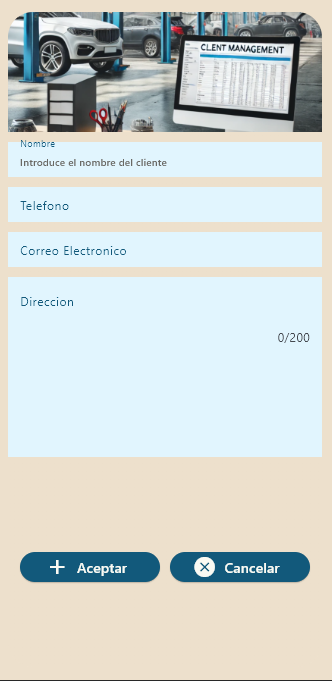
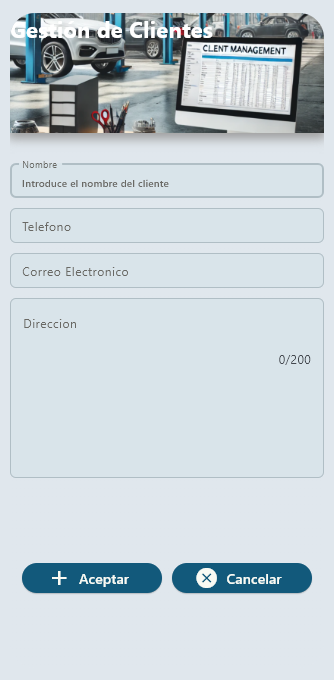
UI design improvement for "Add Clients" management: visual refinement of the "Name", "Phone", "Email", and "Address" fields, with color and contrast adjustments for a more appealing and cohesive user experience.
Mejora en el diseño de la interfaz para la gestión de "Añadir Clientes": refinamiento visual de los campos "Nombre", "Teléfono", "Correo Electrónico" y "Dirección", con ajustes en colores y contrastes para una experiencia de usuario más atractiva y coherente.

diff --git a/app.py b/app.py
@@ -1,7 +1,7 @@
 from datetime import datetime
 import flet as ft
 from flet import *
-from sqlalchemy import and_, desc, asc, or_
+from sqlalchemy import and_, or_, desc, asc
 from sqlalchemy.exc import SQLAlchemyError
 from models import Cliente, Vehiculo, Recambio, Ingreso, Registro
 import db
@@ -42,19 +42,19 @@ class VentanaInicio(ft.View):
         self.page = page
 
         # Color de fondo contenedor principal
-        self.bgcolor = "#ede0cc"
+        self.bgcolor = "#E0E7ED"
 
         # Logo de la App
         self.logo = ft.Container(
             ft.Container(
-                bgcolor="#ede0cc",
+                bgcolor="#E0E7ED",
                 width=250,
                 height=180,
                 padding=0,
                 image_repeat=ImageRepeat.NO_REPEAT,
                 shape=ft.BoxShape("rectangle"),
                 # Define imagen
-                image_src="/logo-APP.png",
+                image_src="/logo-APP3.png",
                 image_fit=ft.ImageFit.COVER,
             ),
             alignment=ft.alignment.Alignment(x=0, y=0)
@@ -62,9 +62,8 @@ class VentanaInicio(ft.View):
 
         # Imagen vehiculo
         self.ImagenVehiculo = ft.Container(
-
             ft.Container(
-                bgcolor="#ede0cc",
+                bgcolor="#E0E7ED",
                 width=200,
                 height=90,
                 padding=0,
@@ -153,12 +152,12 @@ class VentanaInicio(ft.View):
                 ft.NavigationBarDestination(
                     icon_content=ft.Icon(
                         name=ft.icons.HOME_OUTLINED,
-                        color="#12597b",
+                        color="#31708E",
                         size=20  # Ajusta el tamaño del ícono no seleccionado
                     ),
                     selected_icon_content=ft.Icon(
                         name=ft.icons.HOME_ROUNDED,
-                        color="#12597b",
+                        color="#31708E",
                         size=24  # Ajusta el tamaño del ícono seleccionado
                     ),
                     label="Inicio",
@@ -166,12 +165,12 @@ class VentanaInicio(ft.View):
                 ft.NavigationBarDestination(
                     icon_content=ft.Icon(
                         name=ft.icons.PERSON_OUTLINED,
-                        color="#12597b",
+                        color="#31708E",
                         size=20
                     ),
                     selected_icon_content=ft.Icon(
                         name=ft.icons.PERSON,
-                        color="#12597b",
+                        color="#31708E",
                         size=24
                     ),
                     label="Cliente",
@@ -180,12 +179,12 @@ class VentanaInicio(ft.View):
                 ft.NavigationBarDestination(
                     icon_content=ft.Icon(
                         name=ft.icons.DIRECTIONS_CAR_OUTLINED,
-                        color="#12597b",
+                        color="#31708E",
                         size=20
                     ),
                     selected_icon_content=ft.Icon(
                         name=ft.icons.DIRECTIONS_CAR,
-                        color="#12597b",
+                        color="#31708E",
                         size=24
                     ),
                     label="Vehículo",
@@ -193,12 +192,12 @@ class VentanaInicio(ft.View):
                 ft.NavigationBarDestination(
                     icon_content=ft.Icon(
                         name=ft.icons.SETTINGS_OUTLINED,
-                        color="#12597b",
+                        color="#31708E",
                         size=20
                     ),
                     selected_icon_content=ft.Icon(
                         name=ft.icons.SETTINGS,
-                        color="#12597b",
+                        color="#31708E",
                         size=24
                     ),
                     label="Recambio",
@@ -206,20 +205,20 @@ class VentanaInicio(ft.View):
                 ft.NavigationBarDestination(
                     icon_content=ft.Icon(
                         name=ft.icons.CAR_REPAIR_OUTLINED,
-                        color="#12597b",
+                        color="#31708E",
                         size=20
                     ),
                     selected_icon_content=ft.Icon(
                         name=ft.icons.CAR_REPAIR,
-                        color="#12597b",
+                        color="#31708E",
                         size=24
                     ),
                     label="Ingreso",
                 )
             ],
-            bgcolor="#ede0cc",  # Color de fondo de la barra de navegación (azul oscuro)
-            indicator_color=ft.colors.AMBER_500,  # Color del indicador del destino seleccionado (ámbar)
-            surface_tint_color="#ede0cc",  # Color de superficie para el material (#ede0cc)
+            bgcolor="#D1E2E7",  # Color de fondo de la barra de navegación (azul oscuro)
+            indicator_color="#FFD700",  # Color del indicador del destino seleccionado (ámbar)
+            surface_tint_color="#E0E7ED",  # Color de superficie para el material (#ede0cc)
             label_behavior=ft.NavigationBarLabelBehavior.ONLY_SHOW_SELECTED  # Mostrar la etiqueta  seleccionada
         )
 
@@ -249,8 +248,8 @@ class VentanaInicio(ft.View):
                 width=350,  # ancho
                 height=655,  # Alto
                 gradient=ft.LinearGradient([  # color del contenedor configurable en 2 tonos de color
-                    "#ede0cc",
-                    "#ede0cc",
+                    "#E0E7ED",
+                    "#E0E7ED",
                 ])
 
             )
@@ -667,12 +666,24 @@ class VentanaClienteNuevo(ft.View):
         self.page = page
 
         # Color de fondo contenedor principal
-        self.bgcolor = "#ede0cc"
+        self.bgcolor = "#E0E7ED"
 
         # Imagen gestion de cliente
         self.imagen_gestionCliente = ft.Container(
             ft.Container(
-                bgcolor="#ede0cc",
+                    content=ft.Text(
+                        value="Gestión de Clientes",
+                        size=22,
+                        color=ft.colors.WHITE,
+                        weight=ft.FontWeight.BOLD
+                    ),
+                shadow=ft.BoxShadow(
+                    blur_radius=8,  # Difuminado de la sombra
+                    spread_radius=2,  # Expansión de la sombra
+                    offset=ft.Offset(0, 4),  # Posición: hacia abajo
+                    color=ft.colors.GREY_500,  # Color de la sombra
+                ),
+                bgcolor="#E0E7ED",
                 width=320,
                 height=120,
                 padding=0,
@@ -688,68 +699,69 @@ class VentanaClienteNuevo(ft.View):
         # Campo de entrada para el nombre del cliente
         self.input_nombreCliente = ft.TextField(
             label="Nombre",
-            label_style=TextStyle(color='#12597b', size=12),
+            label_style=TextStyle(color='#6a6965', size=12),
             value="",
-            border_radius=ft.border_radius.vertical(top=0, bottom=0),
+            border_radius=ft.border_radius.vertical(top=6, bottom=6),
             hint_text="Introduce el nombre del cliente",
             hint_style=TextStyle(color='#6a6965', size=10),
             color='black',
             height=35,
             cursor_color="#12597b",
             text_size=13,
-            border_color="transparent",
+            border_color="#B0BEC5",
             autofocus=True,
-            bgcolor="#E1F5FE"
+            bgcolor="#D9E4EA"
         )
 
         # Campo de entrada para el telefono del cliente
         self.input_telefonoCliente = ft.TextField(
             label="Telefono",
-            label_style=TextStyle(color='#12597b', size=12),
+            label_style=TextStyle(color='#6a6965', size=12),
             value="",
-            border_radius=ft.border_radius.vertical(top=0, bottom=0),
+            border_radius=ft.border_radius.vertical(top=6, bottom=6),
             hint_text="Introduce el telefono del cliente",
             hint_style=TextStyle(color='#6a6965', size=10),
             color='black',
             height=35,
             cursor_color="#12597b",
             text_size=13,
-            border_color="transparent",
+            border_color="#B0BEC5",
             autofocus=True,
-            bgcolor="#E1F5FE"
+            bgcolor="#D9E4EA"
         )
 
         # Campo de entrada para el correo electronico del cliente
         self.input_correoCliente = ft.TextField(
             label="Correo Electronico",
-            label_style=TextStyle(color='#12597b', size=12),
+            label_style=TextStyle(color='#6a6965', size=12),
             value="",
-            border_radius=ft.border_radius.vertical(top=0, bottom=0),
+            border_radius=ft.border_radius.vertical(top=6, bottom=6),
             hint_text="Introduce el correo del cliente",
             hint_style=TextStyle(color='#6a6965', size=10),
             color='black',
             height=35,
             cursor_color="#12597b",
             text_size=13,
-            border_color="transparent",
+            border_color="#B0BEC5",
             autofocus=True,
-            bgcolor="#E1F5FE"
+            bgcolor="#D9E4EA"
         )
 
         # Campo de entrada para la direccion del cliente
         self.input_direccionCliente = ft.Container(
-            bgcolor='#E1F5FE',
-            # border=ft.border.all(ft.colors.ORANGE_100),
+            bgcolor='#D9E4EA',
+            border=ft.border.all(color="#B0BEC5", width=1),
+            border_radius=ft.border_radius.vertical(top=6, bottom=6),
             # expand=True,
             height=180,
             content=
             ft.TextField(
                 filled=False,
                 label="Direccion",
-                label_style=TextStyle(color='#12597b', size=12, ),
+                label_style=TextStyle(color='#6a6965', size=12, ),
                 expand=True,
                 value="",
-                border_radius=ft.border_radius.vertical(top=5, bottom=5),
+                border_radius=ft.border_radius.vertical(top=6, bottom=6),
                 hint_text="Introduce la direccion del cliente",
                 hint_style=TextStyle(color='#6a6965', size=10),
                 max_length=200,  # maximo de caracteres que se pueden ingresar en TextField
@@ -761,7 +773,7 @@ class VentanaClienteNuevo(ft.View):
                 text_size=13,
                 border_color="transparent",
                 autofocus=False,
-                bgcolor="#E1F5FE",
+                bgcolor="#D9E4EA",
                 text_vertical_align=ft.VerticalAlignment.START,
             )
         )
@@ -807,6 +819,7 @@ class VentanaClienteNuevo(ft.View):
                 ft.Column([
                     # self.tituloClientes,
                     self.imagen_gestionCliente,
+                    ft.Divider(height=10, color="transparent"),
                     self.input_nombreCliente,
                     self.input_telefonoCliente,
                     self.input_correoCliente,
@@ -820,8 +833,8 @@ class VentanaClienteNuevo(ft.View):
                 width=350,  # ancho
                 height=655,  # Alto
                 gradient=ft.LinearGradient([  # color del contenedor configurable en 2 tonos de color
-                    "#ede0cc",
-                    "#ede0cc",
+                    "#E0E7ED",
+                    "#E0E7ED",
                 ])
 
             )
@@ -3127,6 +3140,7 @@ class VentanaNuevoIngreso(ft.View):
         self.page.session.set("matricula", vehiculo.matricula)
         db.session.close()
 
+
 class VentanaRegistro(ft.View):
     '''Clase VentanaRegistro: Interfaz gráfica para la gestión de registro de repuestos e historial.
 
@@ -3835,6 +3849,7 @@ class VentanaRegistro(ft.View):
 
             db.session.close()
 
+
 def main(page: ft.page):
     # configuración relacionada con la página
     page.title = "app"
@@ -3881,8 +3896,8 @@ def main(page: ft.page):
 
     page.on_route_change = router
     #page.go("/inicio")
-    page.go("/clientes")
-    #page.go("/clienteNuevo")
+    #page.go("/clientes")
+    page.go("/clienteNuevo")
     #page.go("/vehiculos")
     #page.go("/vehiculoNuevo")
     #page.go("/recambios")
